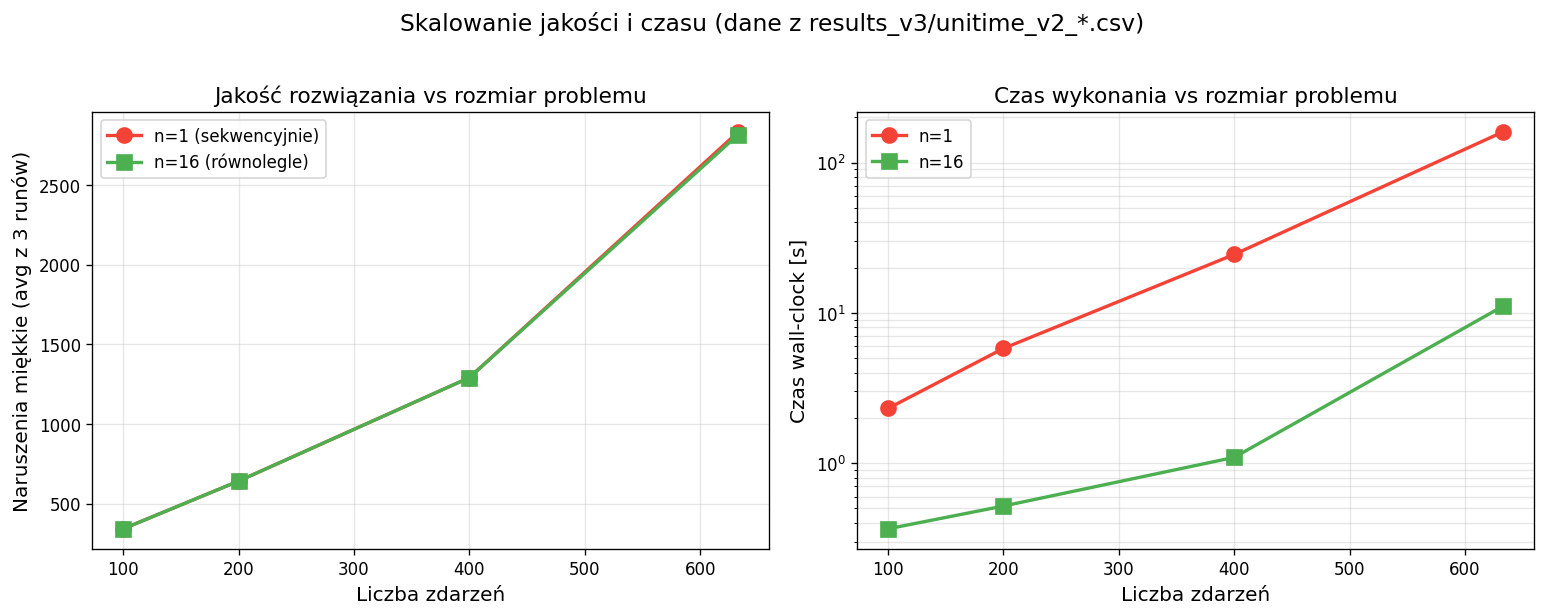
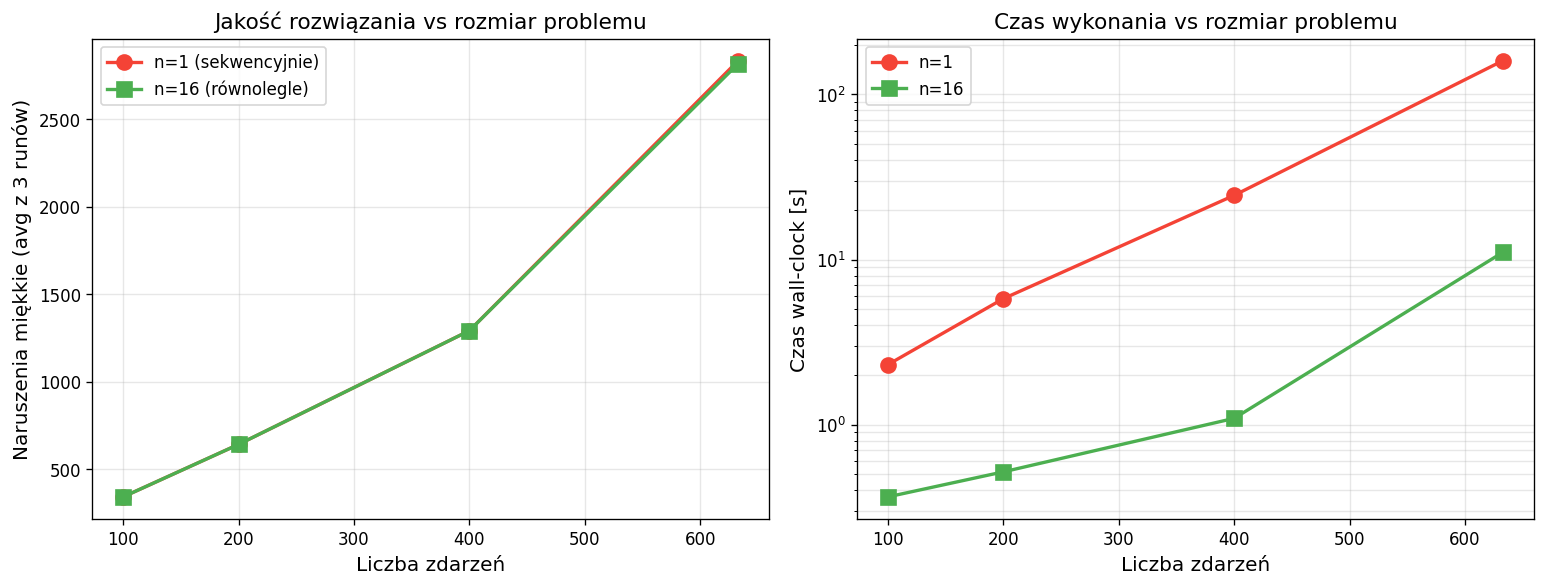
fix: quality_scaling.png — usunięty redundantny suptitle, slajd używa width=textwidth

diff --git a/prezentacja/lab9.tex b/prezentacja/lab9.tex
@@ -513,9 +513,9 @@ po runie mamy 16 trajektorii fitness na jednym wykresie.
 
 \begin{frame}{Skalowanie jakości i czasu}
 \centering
-\includegraphics[height=0.78\textheight]{quality_scaling.png}
+\includegraphics[width=\textwidth]{quality_scaling.png}
 
-\vspace{-0.3em}
+\vspace{0.3em}
 \centering\scriptsize\itshape
 Lewy: soft viol vs $n_e$ (n=1 vs n=16). Prawy: czas wall-clock (skala log).
 \end{frame}
